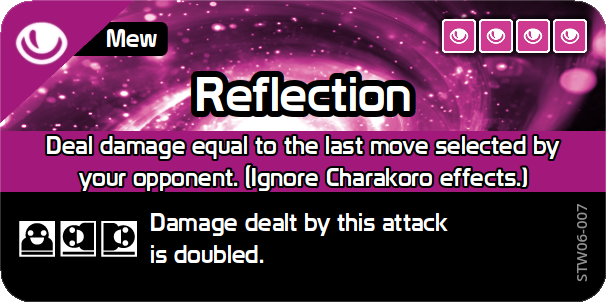
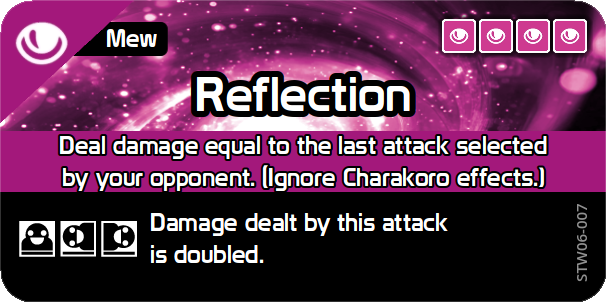
"final" reflection

Changed region(s): [[0.0594, 0.4172, 0.9505, 0.6556]]

diff --git a/database/text/wazacards/ST/Mew.md b/database/text/wazacards/ST/Mew.md
@@ -118,19 +118,19 @@
 
 #### Reflection ?
 
-| Name      | Reflection ?                                                                                                                               |
-| --------- | ------------------------------------------------------------------------------------------------------------------------------------------ |
-| Japanese  | リフレクション                                                                                                                             |
-| Type      | Psychic                                                                                                                                    |
-| Code      | STW06-007                                                                                                                                  |
-| Pokémon   | Mew                                                                                                                                        |
-| Energy    | {P}{P}{P}{P}                                                                                                                               |
-| Damage    | 20                                                                                                                                         |
-| Effect    | This move does damage equal to the damage of the last move selected by your opponent. (Ignore any Charakoro effects of the selected move.) |
-| Standing  | Damage dealt by this attack is doubled.                                                                                                    |
-| Handstand |                                                                                                                                            |
-| Back      |                                                                                                                                            |
-| Down      |                                                                                                                                            |
-| Sideways  | Damage dealt by this attack is doubled.                                                                                                    |
+| Name      | Reflection ?                                                                                                                                     |
+| --------- | ------------------------------------------------------------------------------------------------------------------------------------------------ |
+| Japanese  | リフレクション                                                                                                                                   |
+| Type      | Psychic                                                                                                                                          |
+| Code      | STW06-007                                                                                                                                        |
+| Pokémon   | Mew                                                                                                                                              |
+| Energy    | {P}{P}{P}{P}                                                                                                                                     |
+| Damage    | 20                                                                                                                                               |
+| Effect    | This attack does damage equal to the damage of the last attack selected by your opponent. (Ignore any Charakoro effects of the selected attack.) |
+| Standing  | Damage dealt by this attack is doubled.                                                                                                          |
+| Handstand |                                                                                                                                                  |
+| Back      |                                                                                                                                                  |
+| Down      |                                                                                                                                                  |
+| Sideways  | Damage dealt by this attack is doubled.                                                                                                          |
 
 [Reflection](https://bandai-hobby.net/site/pokemon/plakoro/images/products/st06/01/img_wazacard07.webp)
